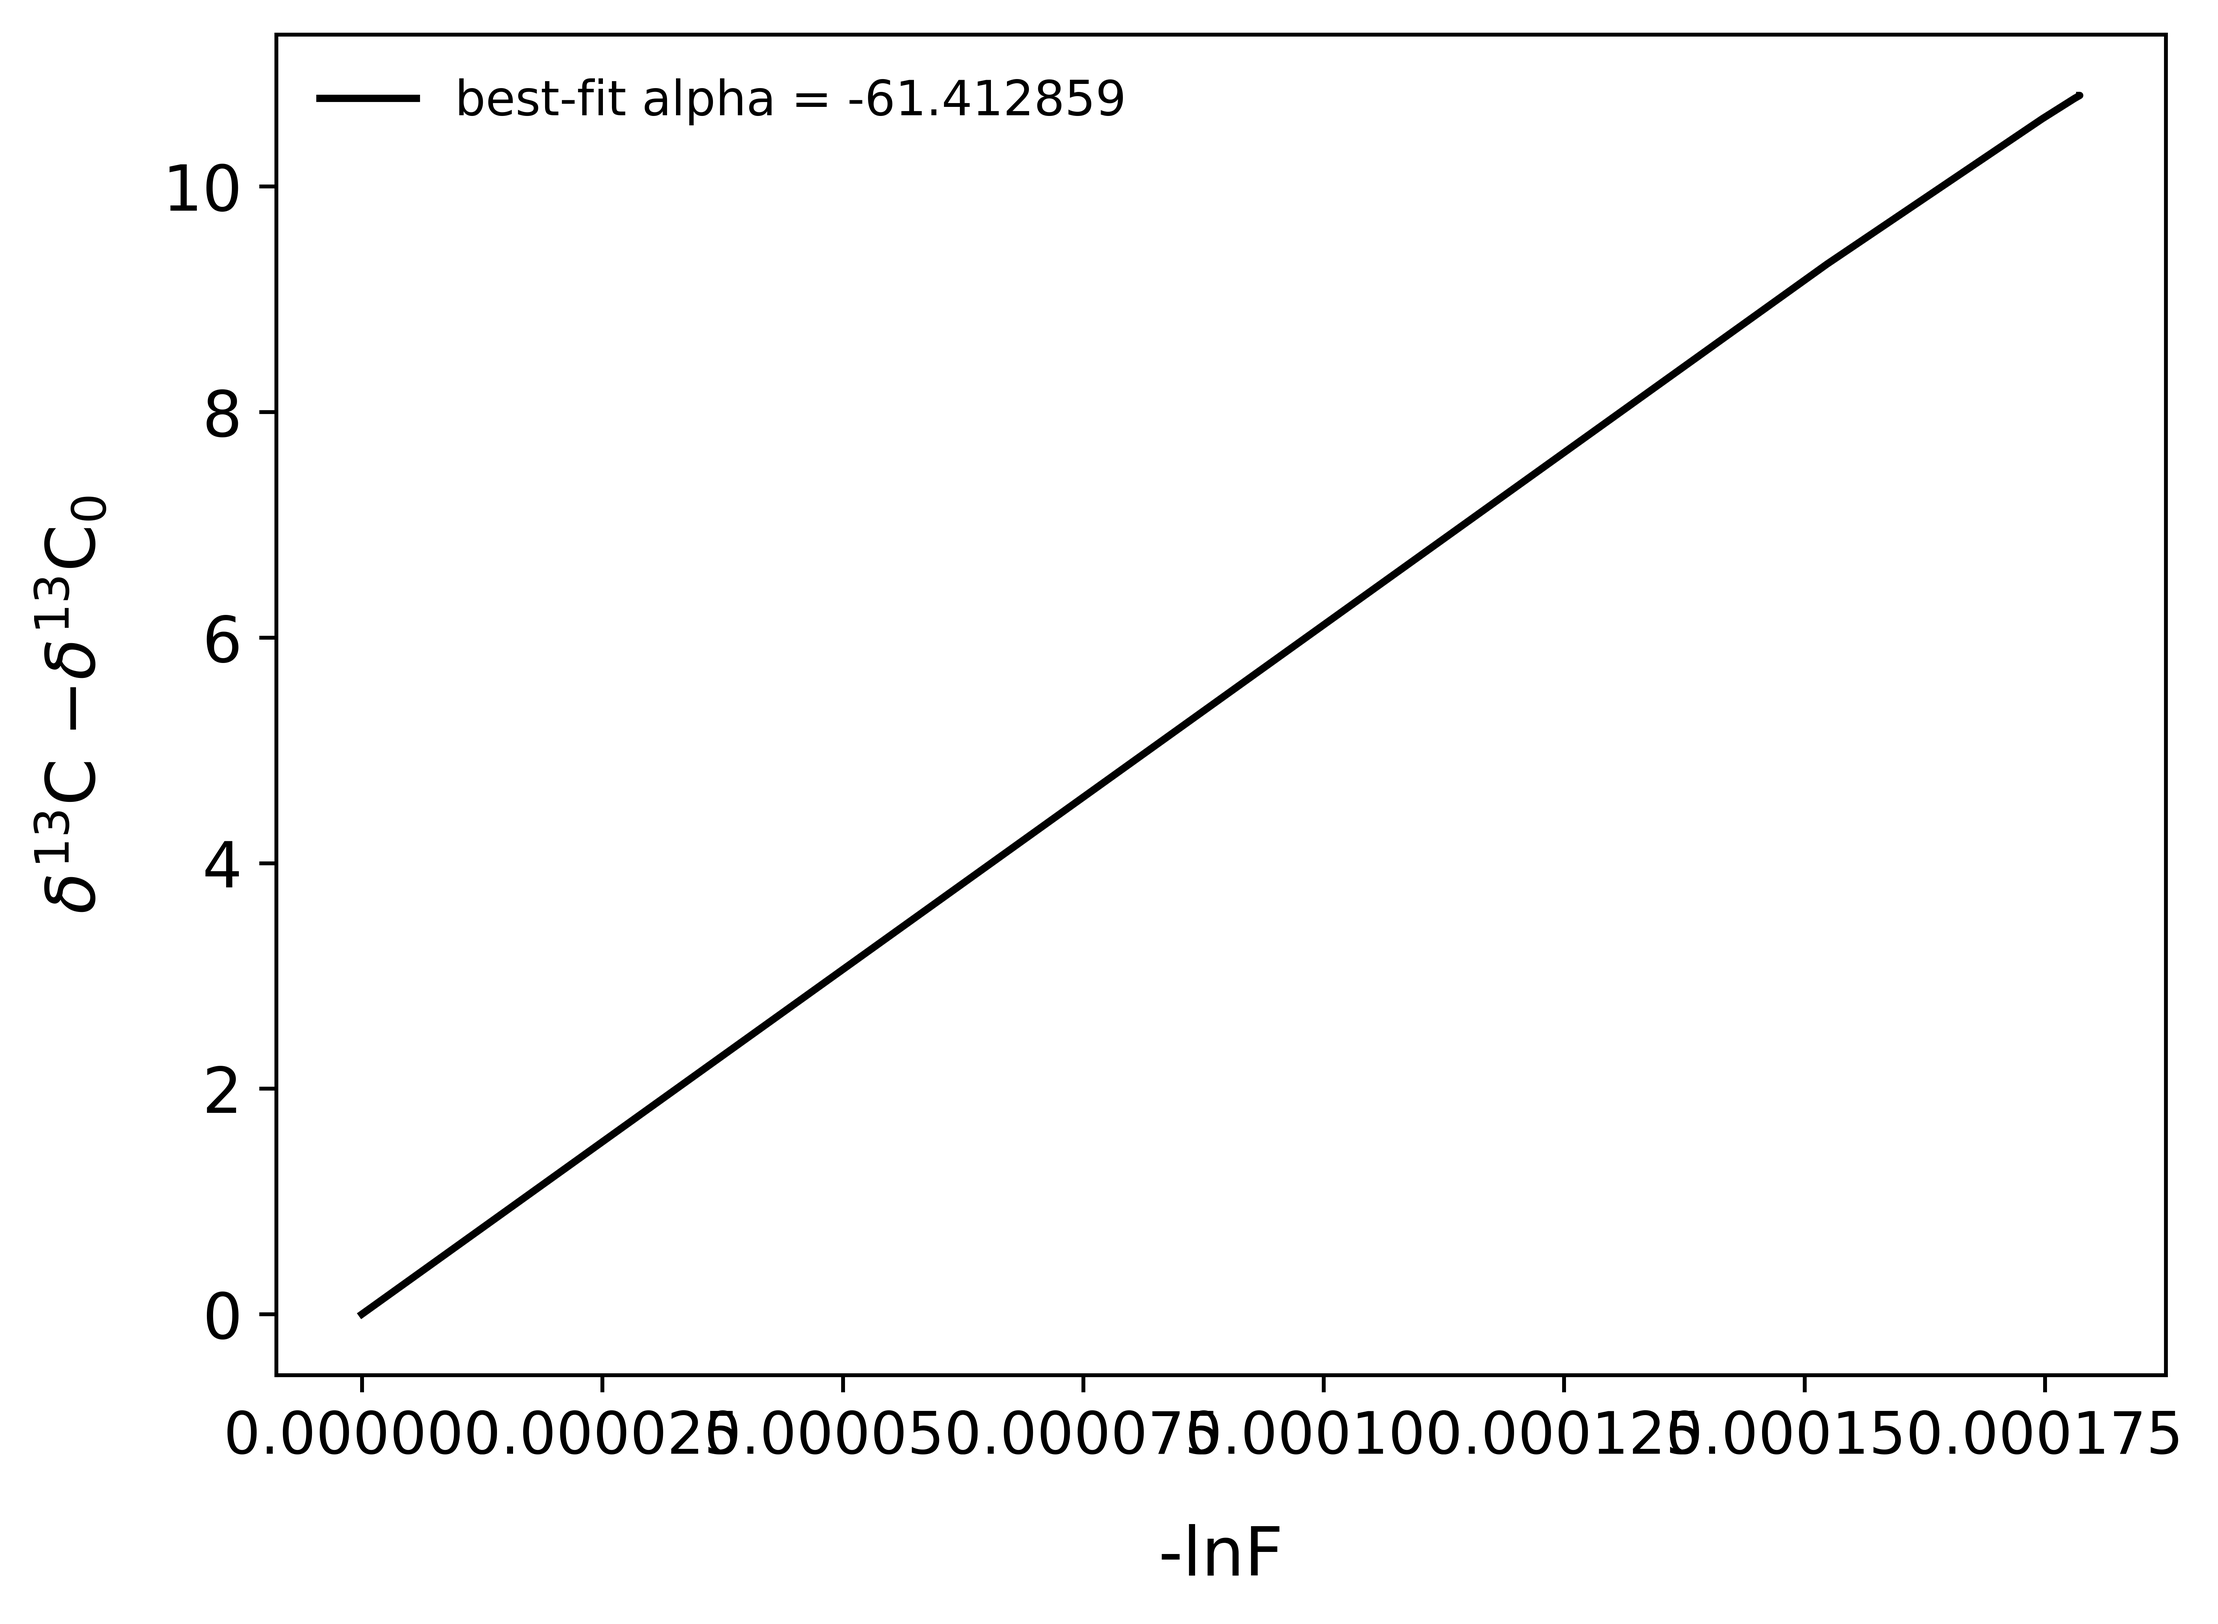
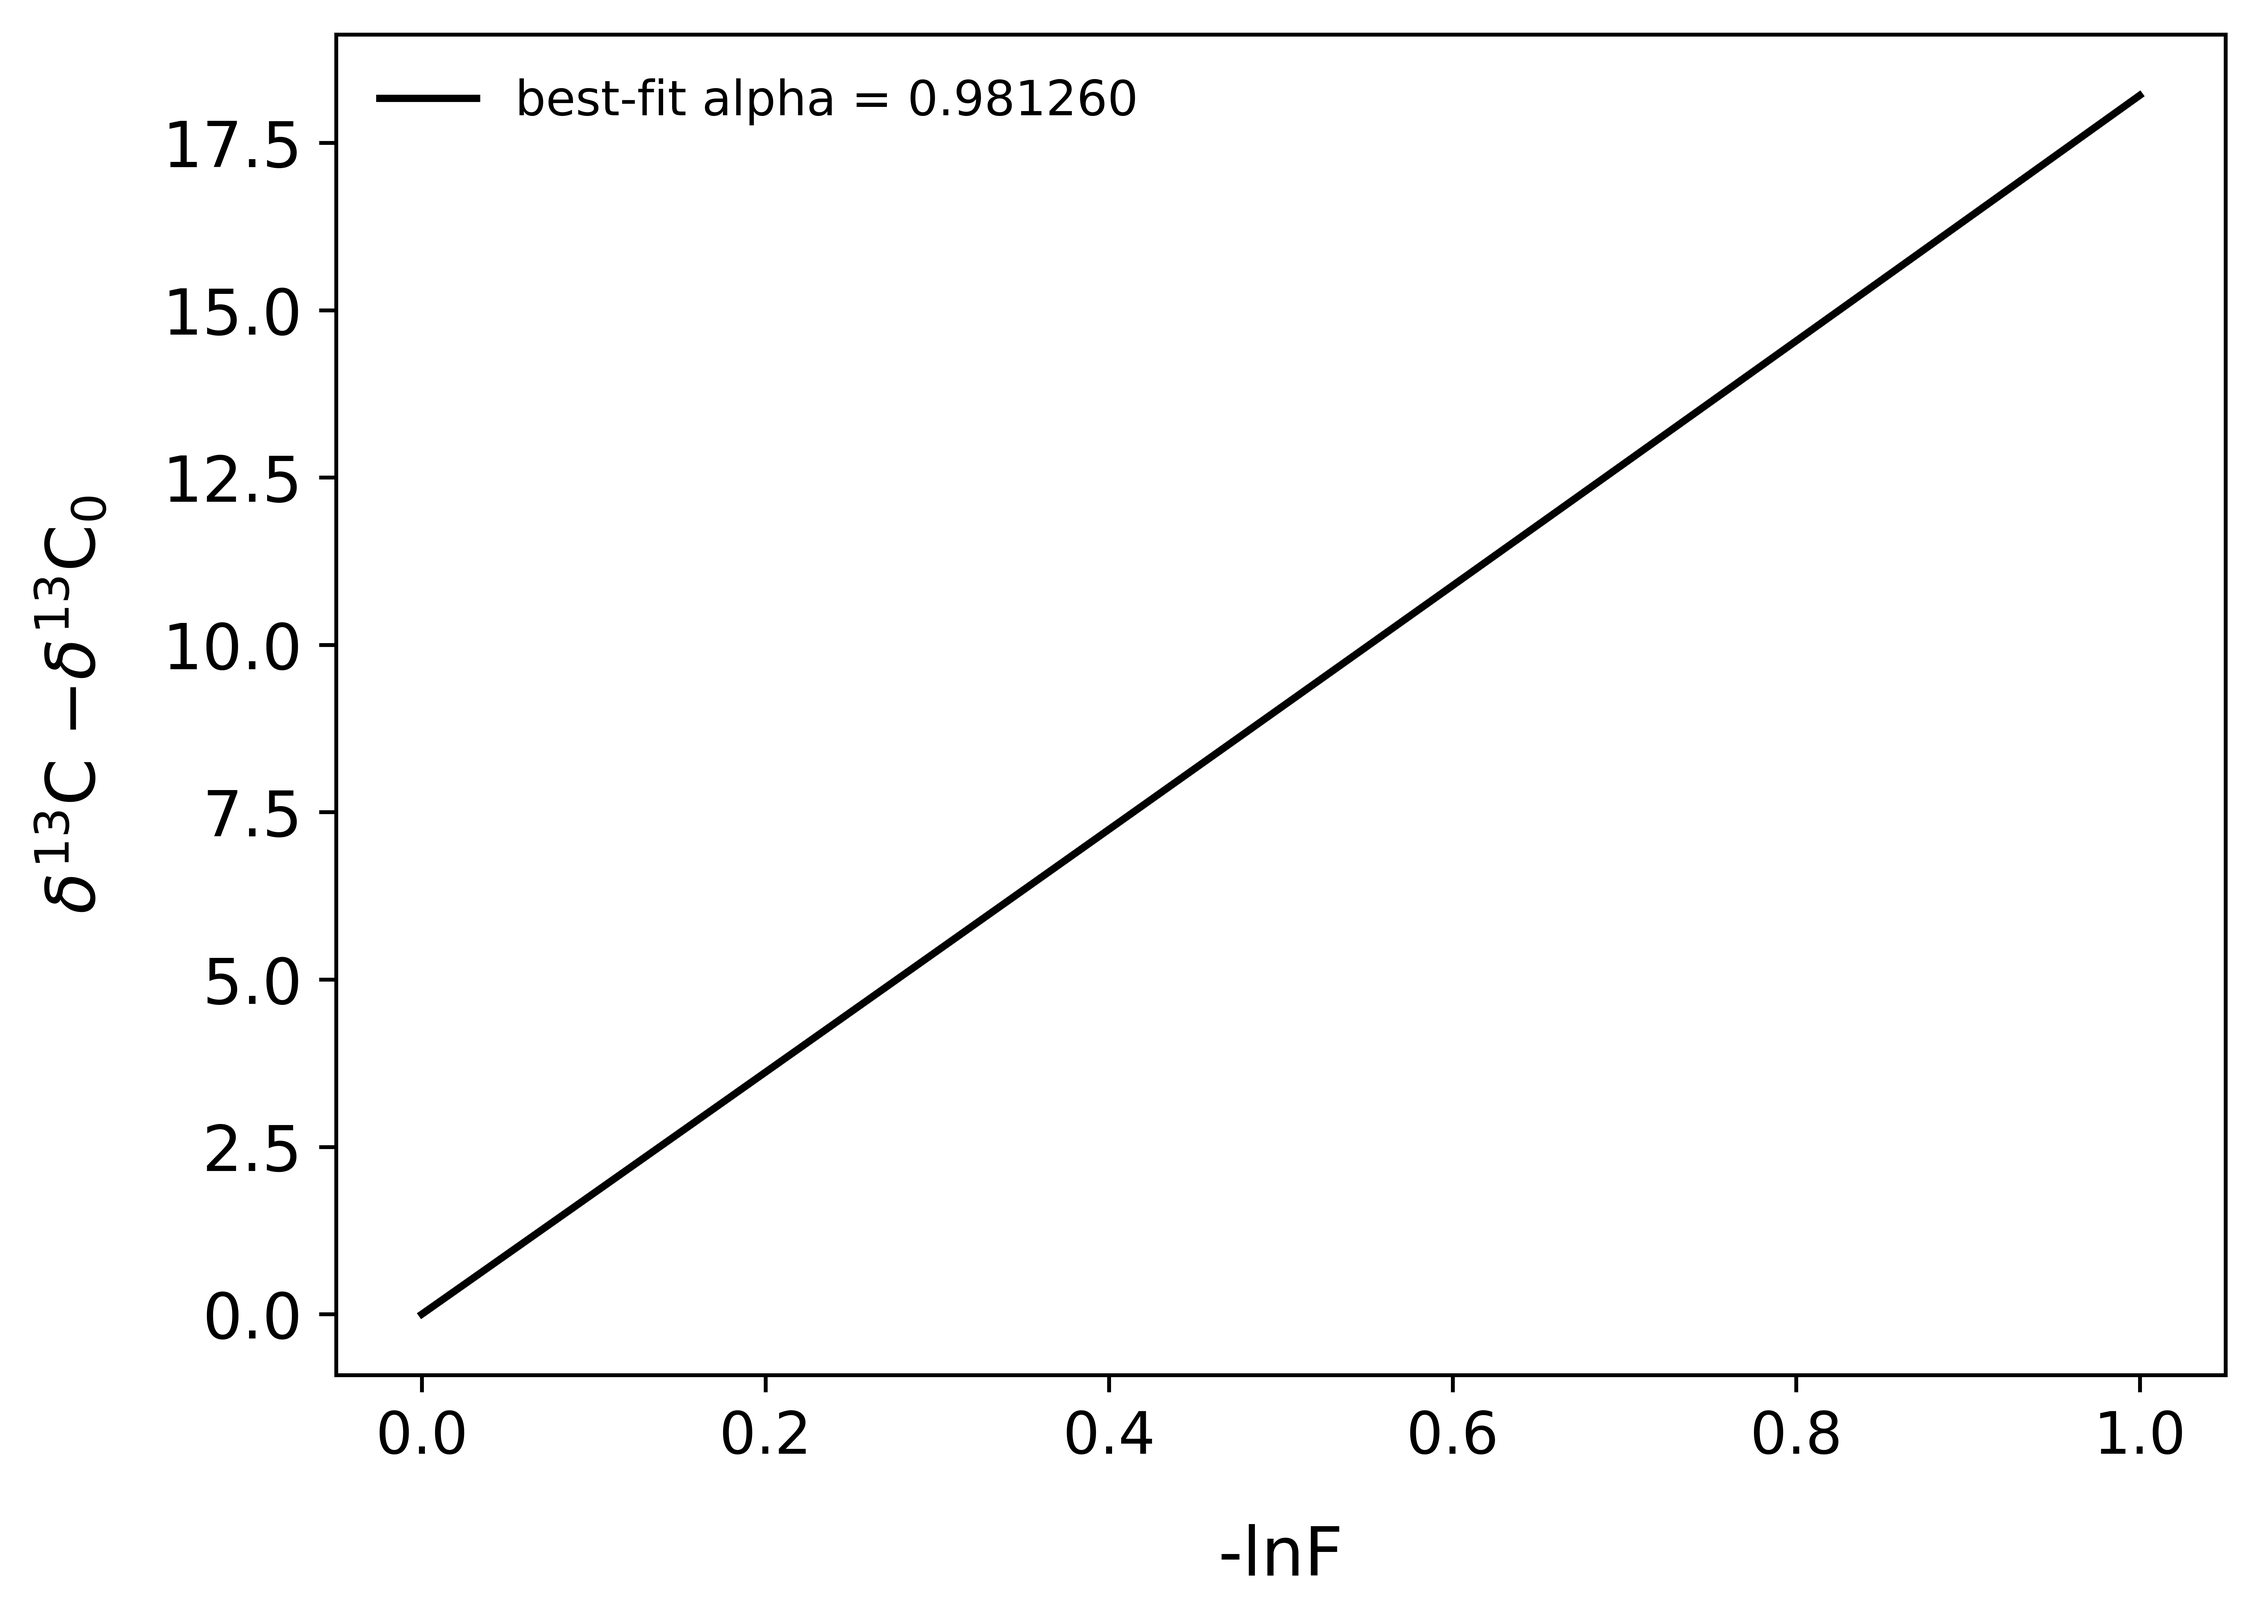
som

diff --git a/Sequential oxidation model.py b/Sequential oxidation model.py
@@ -20,7 +20,7 @@ a_nc10=[0.9778, 0.8019, 0.7843, 0.6296]
 
 #INPUTS
 nmolec=10000
-num=10000  #number of time steps
+num=100000  #number of time steps
 #------------------------------------------------------------------------------------------------
 t_lower=0.0001 # minimum time for time interval
 t_upper= 1.0 # maximum time for time interval, dimensionless
@@ -31,9 +31,9 @@ TK=T+273.15 # Equilibration temperature of initial methane in K
 
 output=False
 
-r_aeom=1.0 # Relative rate of AeOM
+r_aeom=0.8 # Relative rate of AeOM
 r_aom=1.0-r_aeom
-os=True # Open system or not
+os=False # Open system or not
 if os==True:
     t_upper=10000.0 # Change the t_upper for open system to make sure it reaches steady state
 # Define a transport flux
@@ -62,7 +62,7 @@ def dfdt(t,Y):
     Kt= (K_aeom[0]+K_aom[0])*Y[0]+(K_aeom[5]+K_aom[5])*Y[1]+(K_aeom[1]+K_aom[1]+K_aeom[2]+K_aom[2])*Y[2]+(K_aeom[6]+K_aom[6]+K_aeom[7]+K_aom[7])*Y[3]+(K_aeom[3]+K_aom[3]+K_aeom[4]+K_aom[4])*Y[4] 
     print("Total methane oxidized:", Kt)
     print("Total CH4:", tCH4)
-    phi=0.5
+    phi=0.4
     Kin=Kt/phi
     Kout=Kin-Kt
     if os==False:
